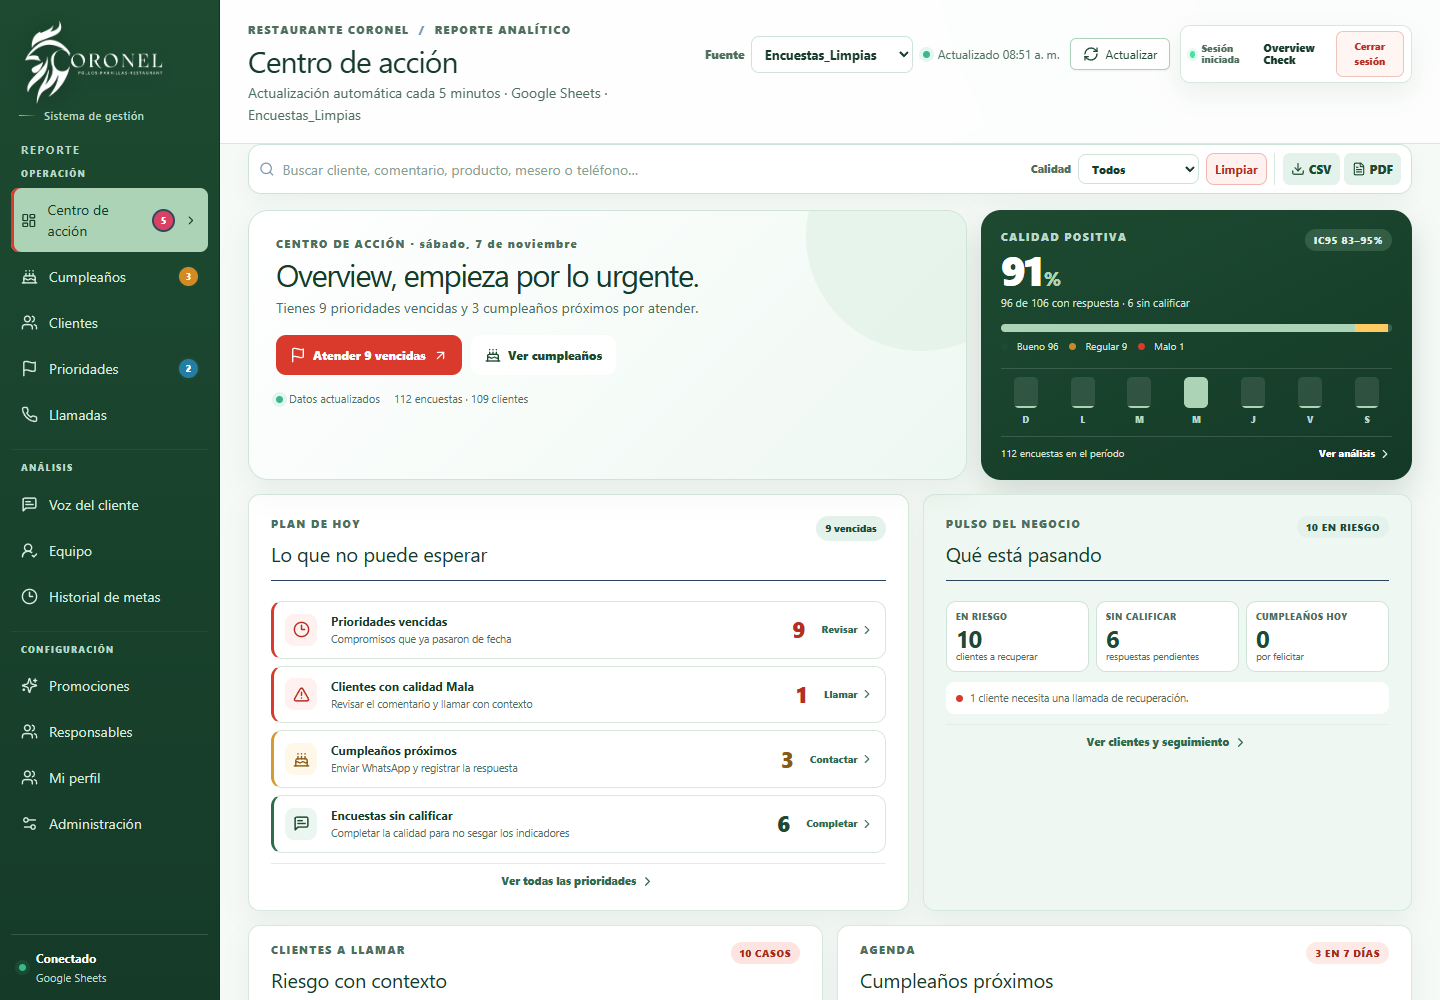
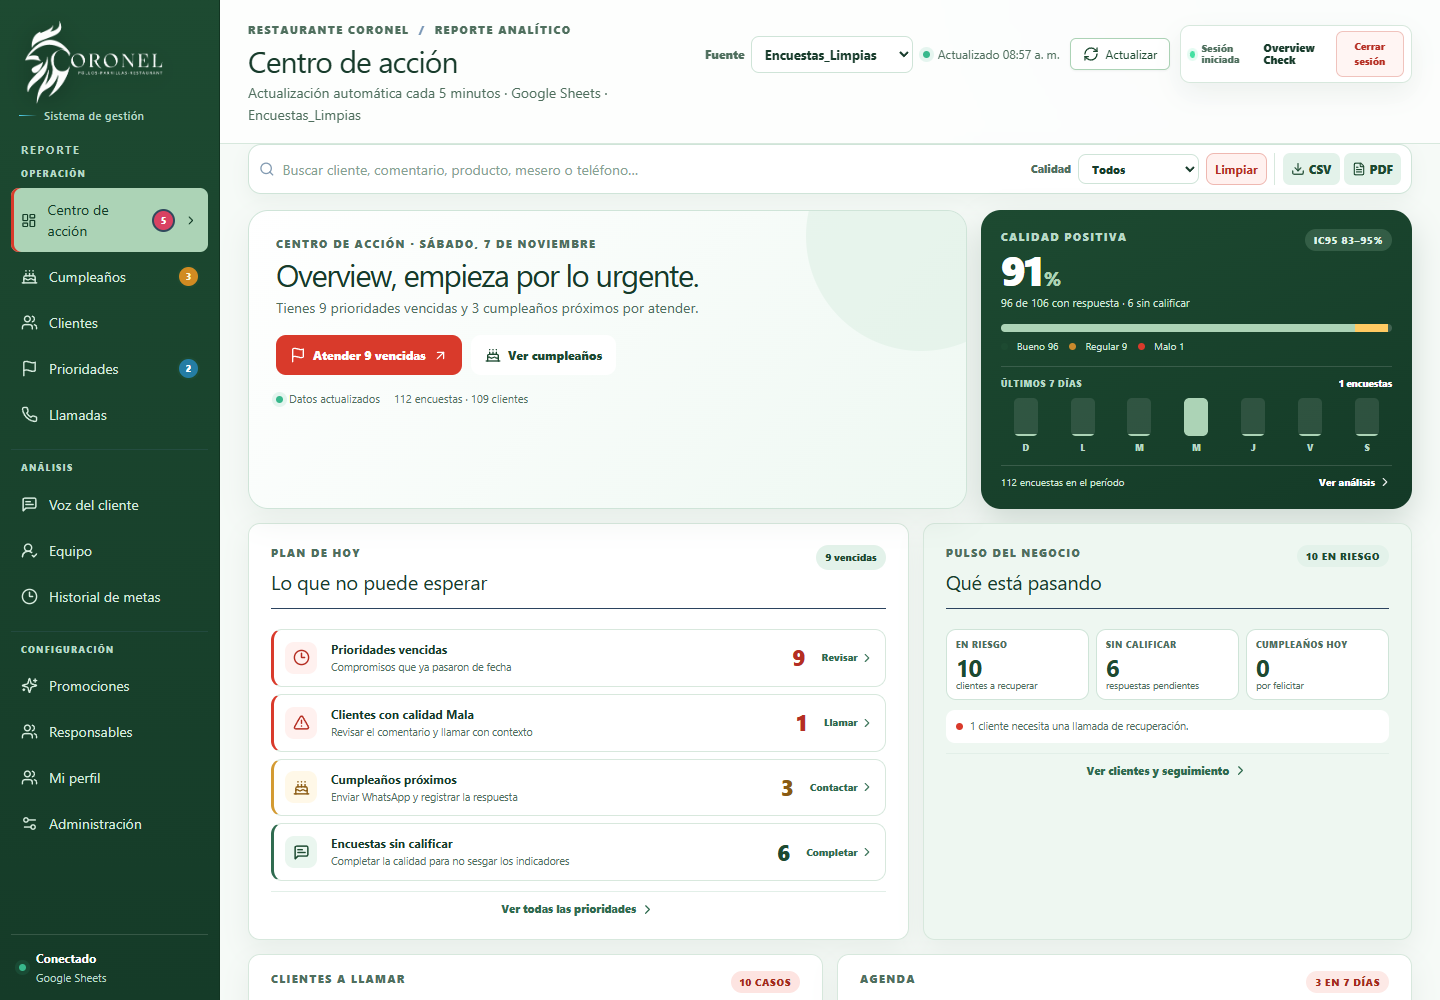
Corregir plural del conteo semanal

diff --git a/client/src/pages/Home.tsx b/client/src/pages/Home.tsx
@@ -4150,7 +4150,7 @@ function Overview({
           </div>
           <div className="weekly-caption">
             <span>ÚLTIMOS 7 DÍAS</span>
-            <b>{weeklyVolume.reduce((sum, day) => sum + day.count, 0)} encuestas</b>
+            <b>{plural(weeklyVolume.reduce((sum, day) => sum + day.count, 0), "encuesta", "encuestas")}</b>
           </div>
           {weeklyVolume.some(day => day.count > 0) ? (
             <div className="weekly-trend" aria-label="Encuestas de los últimos 7 días">
